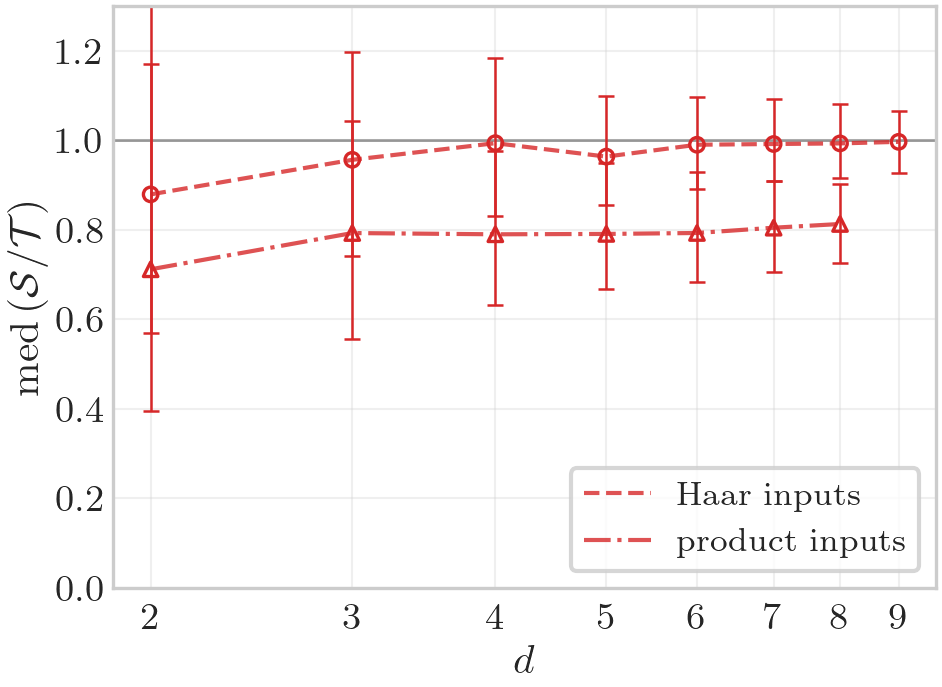
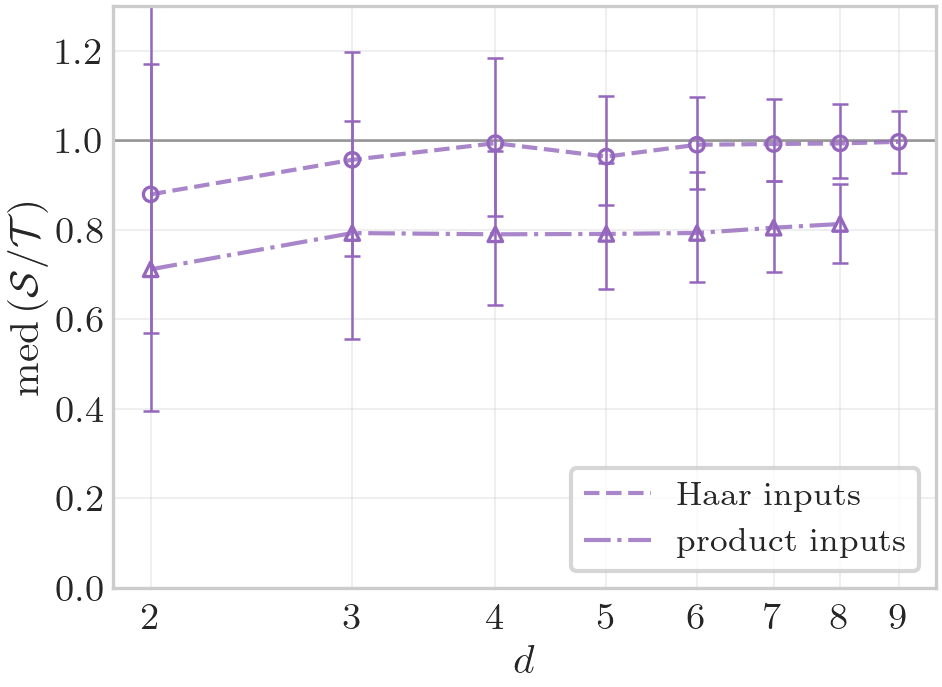
Purple for the single-ensemble symmetric figures; blue/red stay reserved for A->B / B->A

diff --git a/expected_signaling_probability/experiments/fig_ratio.py b/expected_signaling_probability/experiments/fig_ratio.py
@@ -11,6 +11,7 @@ import matplotlib.pyplot as plt
 from expected_signaling_probability import Direction, DrawConfig, GlobalOpEnsemble, Quantity, StateEnsemble, sweep
 from expected_signaling_probability.experiments.common import (
     GLOBAL_OP_COLOR,
+    SYMMETRIC_COLOR,
     GLOBAL_OP_LABEL,
     MASTER_SEED,
     Curve,
@@ -32,25 +33,25 @@ BASE = DrawConfig(d_A=2, d_B=2, direction=Direction.A_TO_B, quantity=Quantity.RA
 MEDIAN_RATIO_LOCAL = r"$\mathrm{med}\,(\mathcal{S}/\mathcal{L})$"
 
 
-def haar_curves(global_ops=tuple(N_HAAR), label_ensemble: bool = True) -> list[Curve]:
+def haar_curves(global_ops=tuple(N_HAAR), label_ensemble: bool = True, color: str | None = None) -> list[Curve]:
     out: list[Curve] = []
     for g in global_ops:
         cfgs = symmetric_configs(BASE.with_(global_op=g), D_MIN, D_MAX[g])
         label = GLOBAL_OP_LABEL[g] if label_ensemble else "Haar inputs"
-        out.append(Curve(label=label, color=GLOBAL_OP_COLOR[g], samples=sweep(cfgs, N_HAAR[g], MASTER_SEED), y_stat="median", fit=False))
+        out.append(Curve(label=label, color=color or GLOBAL_OP_COLOR[g], samples=sweep(cfgs, N_HAAR[g], MASTER_SEED), y_stat="median", fit=False))
     return out
 
 
-def product_curves(global_ops=PRODUCT_GLOBAL_OPS, with_local: bool = True, label_ensemble: bool = True) -> list[Curve]:
+def product_curves(global_ops=PRODUCT_GLOBAL_OPS, with_local: bool = True, label_ensemble: bool = True, color: str | None = None) -> list[Curve]:
     out: list[Curve] = []
     for g in global_ops:
         cfgs = symmetric_configs(BASE.with_(global_op=g, state=StateEnsemble.PRODUCT_HS), D_MIN, D_MAX_PRODUCT[g])
         name = f" {GLOBAL_OP_LABEL[g]}" if label_ensemble else ""
         label = rf"$\mathcal{{S}}/\mathcal{{T}}${name}" if with_local else "product inputs"
-        out.append(Curve(label=label, color=GLOBAL_OP_COLOR[g], samples=sweep(cfgs, N_PRODUCT, MASTER_SEED), y_stat="median", fit=False, marker="^" if not with_local else "o", linestyle="-." if not with_local else "--"))
+        out.append(Curve(label=label, color=color or GLOBAL_OP_COLOR[g], samples=sweep(cfgs, N_PRODUCT, MASTER_SEED), y_stat="median", fit=False, marker="^" if not with_local else "o", linestyle="-." if not with_local else "--"))
         if with_local and g is not GlobalOpEnsemble.BCSZ:
             cfgs_l = [c.with_(quantity=Quantity.RATIO_LOCAL) for c in cfgs]
-            out.append(Curve(label=rf"$\mathcal{{S}}/\mathcal{{L}}${name}", color=GLOBAL_OP_COLOR[g], samples=sweep(cfgs_l, N_PRODUCT, MASTER_SEED), y_stat="median", fit=False, marker="^", linestyle="-."))
+            out.append(Curve(label=rf"$\mathcal{{S}}/\mathcal{{L}}${name}", color=color or GLOBAL_OP_COLOR[g], samples=sweep(cfgs_l, N_PRODUCT, MASTER_SEED), y_stat="median", fit=False, marker="^", linestyle="-."))
     return out
 
 
@@ -58,7 +59,7 @@ def main_bcsz(mode: PlotMode = PlotMode.PAPER):
     """Main-text figure: BCSZ only, Haar and product inputs on one axis."""
     apply_plot_style(mode)
     plt.figure()
-    curves = haar_curves((GlobalOpEnsemble.BCSZ,), label_ensemble=False) + product_curves((GlobalOpEnsemble.BCSZ,), with_local=False)
+    curves = haar_curves((GlobalOpEnsemble.BCSZ,), label_ensemble=False, color=SYMMETRIC_COLOR) + product_curves((GlobalOpEnsemble.BCSZ,), with_local=False, color=SYMMETRIC_COLOR)
     print_summary(curves)
     draw_curves(curves, error_bar=ErrorBar.IQR, dim_var="d", d_fit_min=None, log_y=False, xlabel=r"$d$", ylabel=LatexStrings.MEDIAN_RATIO)
     plt.axhline(1.0, color="0.5", linewidth=0.6, zorder=0)

diff --git a/expected_signaling_probability/experiments/fig_symmetric.py b/expected_signaling_probability/experiments/fig_symmetric.py
@@ -6,6 +6,7 @@ exactly as fast as the transmission does, and in the unitary case neither decays
 from expected_signaling_probability import Direction, DrawConfig, GlobalOpEnsemble, Quantity, sweep
 from expected_signaling_probability.experiments.common import (
     GLOBAL_OP_COLOR,
+    SYMMETRIC_COLOR,
     GLOBAL_OP_LABEL,
     MASTER_SEED,
     N_SAMPLES,
@@ -30,10 +31,11 @@ def curves(n_samples: int = N_SAMPLES, global_ops=(GlobalOpEnsemble.BCSZ,)) -> l
         cfgs = symmetric_configs(BASE.with_(global_op=g), D_MIN, D_MAX[g])
         s = sweep(cfgs, n_samples, MASTER_SEED)
         t = sweep([c.with_(quantity=Quantity.TRANSMISSION) for c in cfgs], n_samples, MASTER_SEED)
+        color = GLOBAL_OP_COLOR[g] if len(global_ops) > 1 else SYMMETRIC_COLOR
         s_label = r"$\langle\mathcal{S}\rangle$" + (f" {GLOBAL_OP_LABEL[g]}" if len(global_ops) > 1 else "")
-        out.append(Curve(label=s_label, color=GLOBAL_OP_COLOR[g], samples=s))
+        out.append(Curve(label=s_label, color=color, samples=s))
         t_label = (r"$\langle\mathcal{T}\rangle$" + (" (dotted)" if len(global_ops) > 1 else "")) if k == 0 else "_nolegend_"
-        out.append(Curve(label=t_label, color=GLOBAL_OP_COLOR[g], samples=t, marker="s", linestyle=":", fit=False))
+        out.append(Curve(label=t_label, color=color, samples=t, marker="s", linestyle=":", fit=False))
     return out
 
 

diff --git a/expected_signaling_probability/experiments/common.py b/expected_signaling_probability/experiments/common.py
@@ -38,6 +38,7 @@ GLOBAL_OP_COLOR = {
     GlobalOpEnsemble.BCSZ: "tab:red",
     GlobalOpEnsemble.WEAK_COUPLING: "tab:purple",
 }
+SYMMETRIC_COLOR = "tab:purple"  # single-ensemble symmetric figures; blue/red are reserved for A->B / B->A
 PAPER_GLOBAL_OPS = (GlobalOpEnsemble.HAAR_UNITARY, GlobalOpEnsemble.COMS, GlobalOpEnsemble.BCSZ)
 
 
